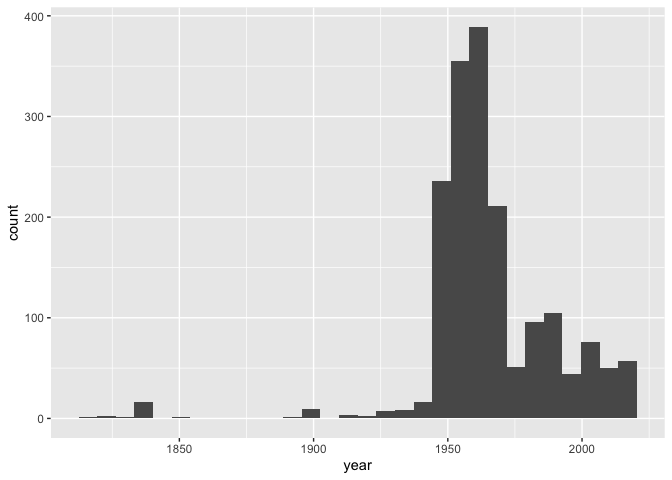
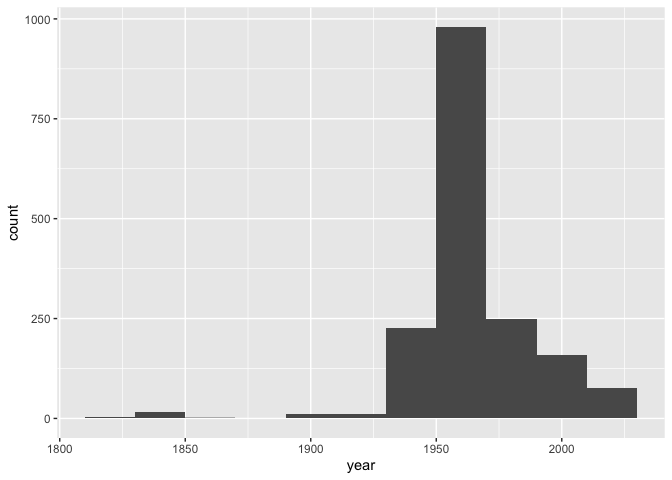
final touch

diff --git a/lab-08.md b/lab-08.md
@@ -5,15 +5,14 @@ Olivia Zhang
 
 ## Load Packages and Data
 
-First, let’s load the necessary packages:
+Load the necessary packages:
 
 ``` r
 library(tidyverse) 
 library(skimr)
 ```
 
-Now, load the dataset. If your data isn’t ready yet, you can leave
-`eval = FALSE` for now and update it when needed.
+Now, load the dataset.
 
 ``` r
 uoe_art <- read_csv("data/uoe-art.csv")
@@ -47,10 +46,10 @@ uoe_art <- uoe_art %>%
 
 The warnings mean that: 1) there are some missing values in the date
 column, which is normal, because not all names have dates come after
-them; 2) not all things comes after the names in the parentheses is
-years or numbers, so as.numeric function doesn’t work for all items in
-year. It only work for items that only contains year as numbers without
-other strings.
+them; 2) not everything following the names in parentheses consists of
+years or numbers, so the as.numeric function doesn’t work for all items
+in the year info. It only works for items that contain only numeric
+years without additional strings.
 
 ## Exercise 11
 
@@ -91,16 +90,11 @@ data points.
 
 ## Exercise 12
 
-Make a histogram of years. Use a reasonable bin width. Do you see
-anything out of the ordinary?
-
 ``` r
 uoe_art %>%
   ggplot(aes(x = year)) +
-  geom_histogram()
+  geom_histogram(binwidth = 30)
 ```
-
-    ## `stat_bin()` using `bins = 30`. Pick better value with `binwidth`.
 
     ## Warning: Removed 1575 rows containing non-finite outside the scale range
     ## (`stat_bin()`).
@@ -169,10 +163,8 @@ table(uoe_art$year)
 #plot
 uoe_art %>%
   ggplot(aes(x = year)) +
-  geom_histogram()
+  geom_histogram(binwidth = 20)
 ```
-
-    ## `stat_bin()` using `bins = 30`. Pick better value with `binwidth`.
 
     ## Warning: Removed 1575 rows containing non-finite outside the scale range
     ## (`stat_bin()`).
@@ -216,13 +208,6 @@ not know all the artists that created the portraits and busts.
 
 ## Exercise 15
 
-Final question! How many art pieces have the word “child” in their
-title? See if you can figure it out, and ask for help if not.
-
-Hint: You can use a combination of filter() and str_detect(). You will
-want to read the help for str_detect() at a minimum, and consider how
-you might capture titles where the word appears as “child” and “Child”.
-
 ``` r
 child_count <- uoe_art %>%
   filter(
@@ -231,4 +216,4 @@ child_count <- uoe_art %>%
   count()
 ```
 
-There are 11 art pieces have the worl “child” in their title.
+There are 11 art pieces have the word “child” in their title.
